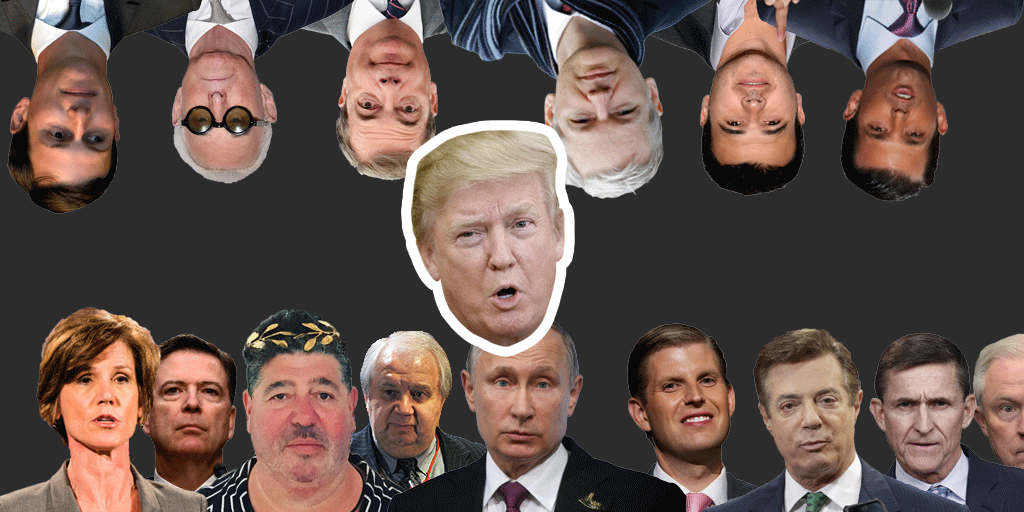
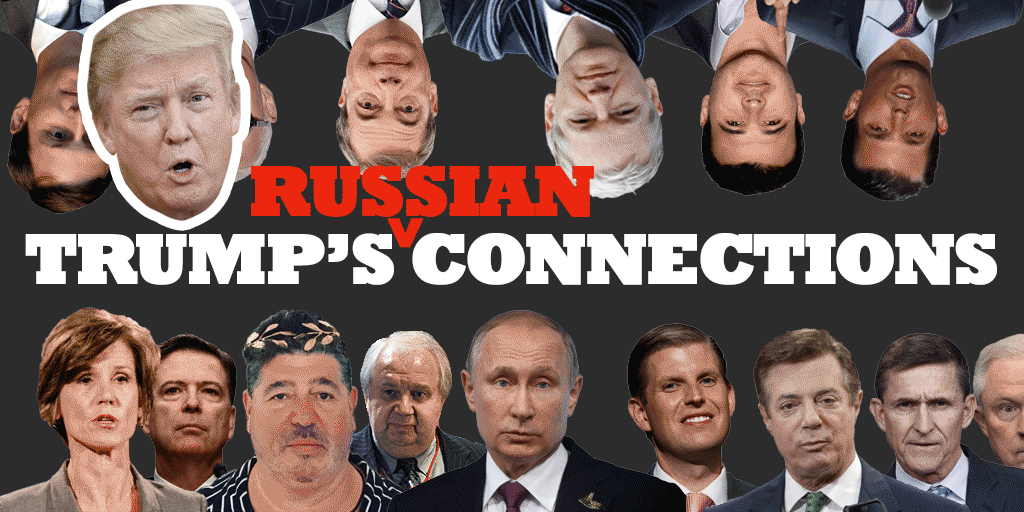
Fixes for prod

diff --git a/app/static/css/style.css b/app/static/css/style.css
@@ -137,11 +137,14 @@ img {
     cursor: pointer;
 }
 
-div.ad { width: 300px; }
+div.ad {
+    width: 300px;
+    padding-bottom: 10px;
+}
 div.ad > span {
-    font-size:10px;
-    color:#999;
-    font-family:sans-serif;
+    font-size: 10px;
+    color: #999;
+    font-family: sans-serif;
 }
 
 .hide { display: none; }

diff --git a/app/freeze.py b/app/freeze.py
@@ -10,7 +10,7 @@ from app import app
 app.debug = False
 environ = os.getenv('environ', 'DEV')
 if environ == 'PROD':
-    app.url_root = '/project/donald-trump-ties-russia-key-players/'
+    app.url_root = 'http://interactive.nydailynews.com/project/donald-trump-ties-russia-key-players/'
 
 class FreezeThings:
     """ We put the Flask Frozen methods in this class so we don't have to

diff --git a/app/app.py b/app/app.py
@@ -21,7 +21,7 @@ page = {
     'datestamp': '2017-07-12',
     'keywords': '',
     'keywords_array': '"Donald Trump", "russia", "donald trump jr"',
-    'shareimg': 'trump-connections-ani.gif',
+    'shareimg': 'trump-connections-ani-v2.gif',
     'shareimgdesc': 'An animation of Donald Trump and his other connections that have Russian connections.',
 }
 
